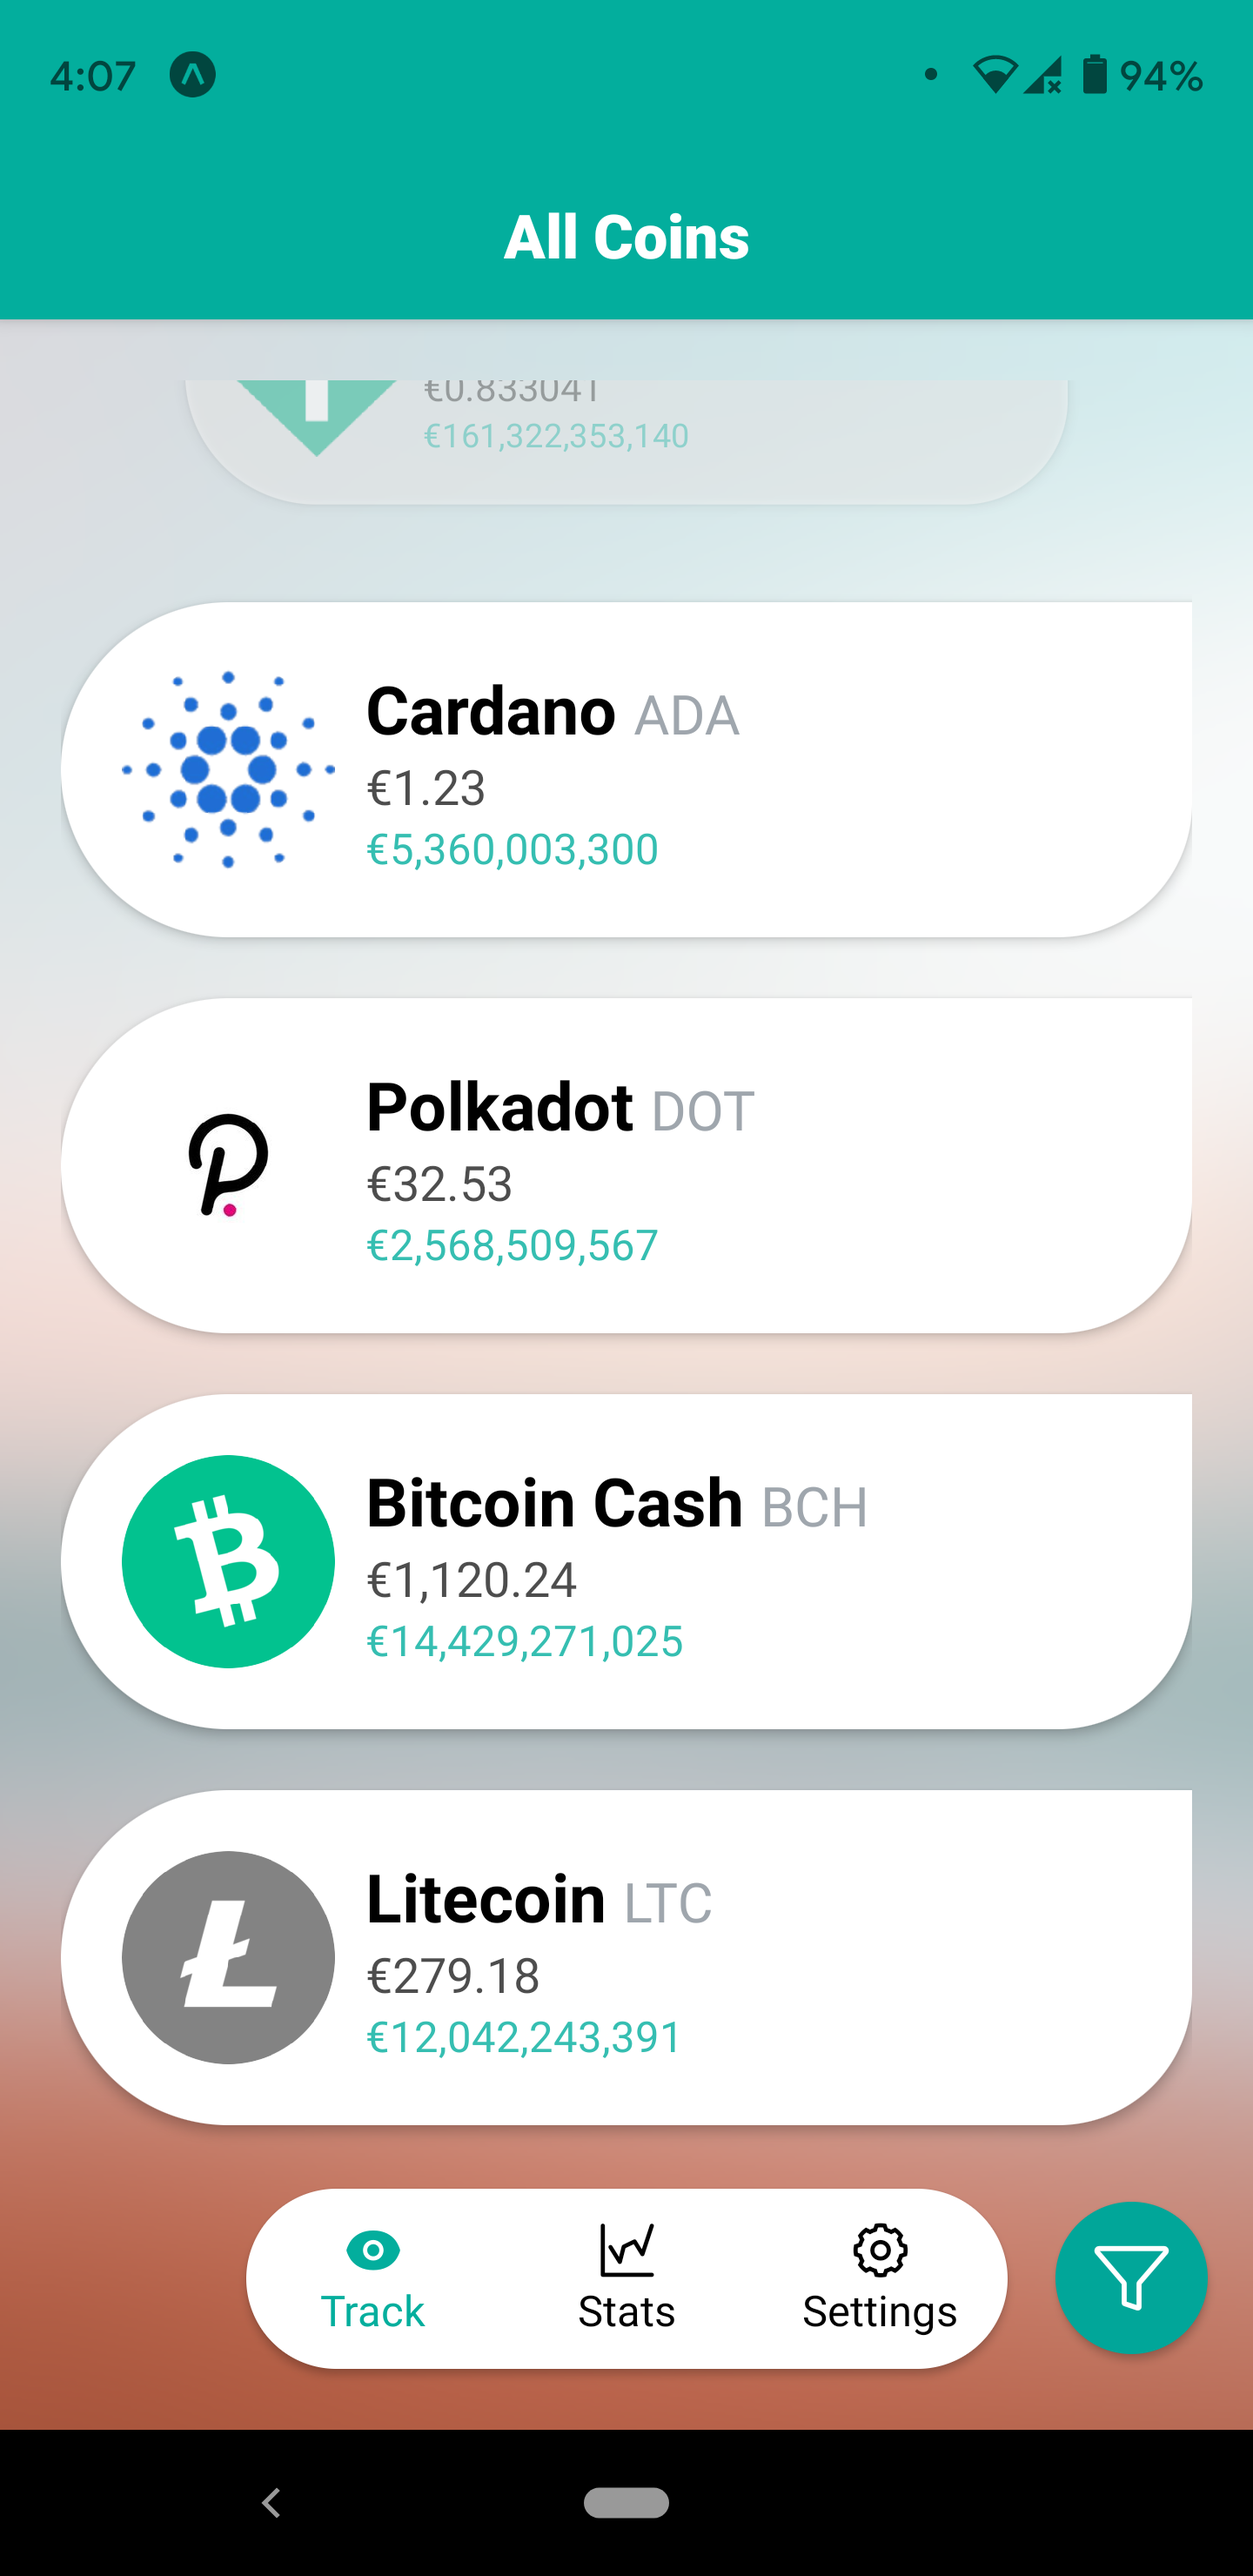
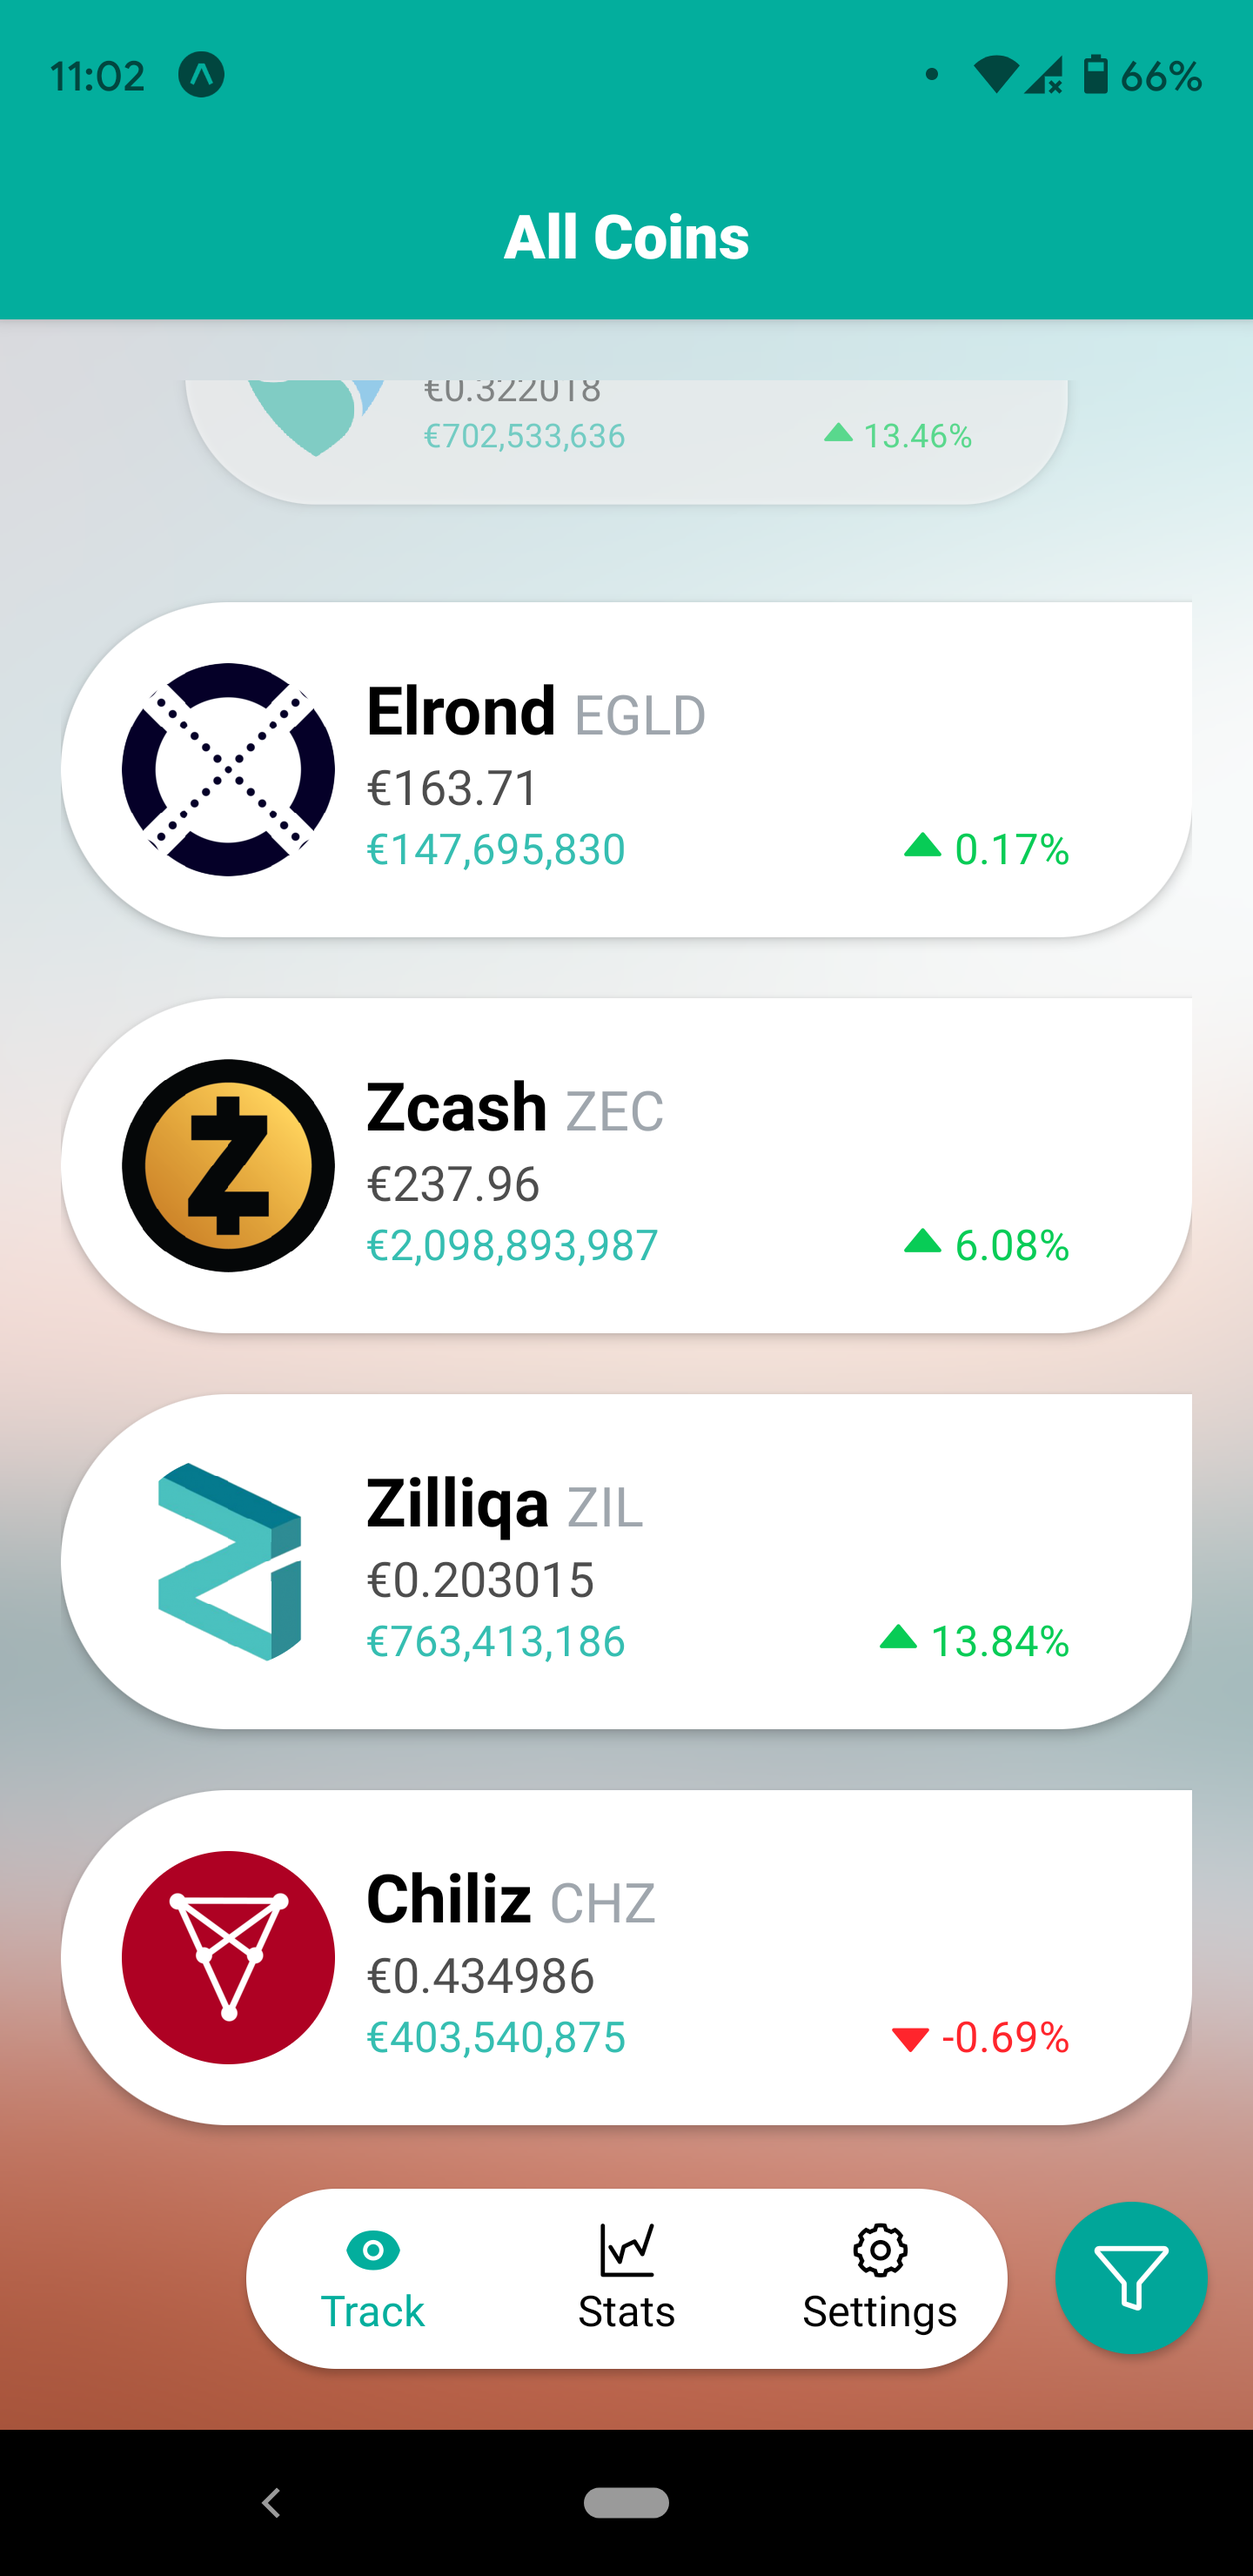
Insert price change section

diff --git a/app/components/CoinList.js b/app/components/CoinList.js
@@ -9,12 +9,15 @@ import {
   StyleSheet,
   Pressable,
   ActivityIndicator,
+  Dimensions,
 } from 'react-native';
+import { AntDesign } from '@expo/vector-icons';
 
 const AnimatedPressable = Animated.createAnimatedComponent(Pressable);
 const SPACING = 20;
 const AVATAR_SIZE = 70;
 const ITEM_SIZE = AVATAR_SIZE + SPACING * 3;
+const WIDTH = Dimensions.get('window').width;
 
 const CoinList = () => {
   const [coins, setCoins] = useState([]);
@@ -35,8 +38,9 @@ const CoinList = () => {
   }, [page]);
 
   const fetchCrypto = async () => {
-    const qs = `vs_currency=eur&order=market_cap_desc&per_page=25&page=${page}&sparkline=false`;
-    const baseUrl = `${COINGECKO_URL}/api/v3/coins/markets?${qs}`;
+    const perPage = 25;
+    const urlParams = `vs_currency=eur&order=market_cap_desc&per_page=${perPage}&page=${page}&sparkline=false`;
+    const baseUrl = `${COINGECKO_URL}/api/v3/coins/markets?${urlParams}`;
 
     axios
       .get(baseUrl)
@@ -60,7 +64,7 @@ const CoinList = () => {
       -1,
       0,
       ITEM_SIZE * index,
-      ITEM_SIZE * (index + 0.8),
+      ITEM_SIZE * (index + 1.2),
     ];
 
     const scale = scrollY.interpolate({
@@ -79,6 +83,28 @@ const CoinList = () => {
       });
     };
 
+    const percentageFormat = (num) => {
+      return (Math.round(num * 100) / 100).toFixed(2);
+    };
+
+    const renderPriceChange = (price) => {
+      if (price > 0) {
+        return (
+          <Text style={styles.rise}>
+            <AntDesign name='caretup' color='#08cc56' size={14} />{' '}
+            {percentageFormat(item.price_change_percentage_24h)}%
+          </Text>
+        );
+      } else {
+        return (
+          <Text style={styles.drop}>
+            <AntDesign name='caretdown' color='#ff252c' size={14} />{' '}
+            {percentageFormat(item.price_change_percentage_24h)}%
+          </Text>
+        );
+      }
+    };
+
     return (
       <AnimatedPressable
         style={[
@@ -91,16 +117,19 @@ const CoinList = () => {
         onPress={() => alert(`test onPress: ${item.id}`)}
       >
         <Image style={styles.itemImage} source={{ uri: item.image }} />
-        <View>
+        <View style={styles.wrapper}>
           <Text style={styles.baseText}>
             {item.name} <Text style={styles.innerText}>{item.symbol}</Text>
           </Text>
           <Text style={styles.itemPrice}>
             &euro;{numberFormat(item.current_price)}
           </Text>
-          <Text style={styles.itemVolume}>
-            &euro;{numberFormat(item.total_volume)}
-          </Text>
+          <View style={styles.combo}>
+            <Text style={styles.itemVolume}>
+              &euro;{numberFormat(item.total_volume)}
+            </Text>
+            {renderPriceChange(item.price_change_percentage_24h)}
+          </View>
         </View>
       </AnimatedPressable>
     );
@@ -115,13 +144,7 @@ const CoinList = () => {
             size='large'
             color='#03AE9D'
           />
-        ) : // <Image
-        //   style={styles.loader}
-        //   source={require('../../assets/spinner.gif')}
-        //   resizeMode='contain'
-        //   resizeMethod='resize'
-        // />
-        null}
+        ) : null}
       </View>
     );
   };
@@ -173,6 +196,10 @@ const styles = StyleSheet.create({
     borderRadius: AVATAR_SIZE,
     marginRight: SPACING / 2,
   },
+  wrapper: {
+    flex: 1,
+    marginRight: SPACING,
+  },
   itemPrice: {
     fontSize: 16,
     opacity: 0.7,
@@ -201,5 +228,15 @@ const styles = StyleSheet.create({
     justifyContent: 'space-around',
     width: AVATAR_SIZE,
     height: AVATAR_SIZE,
+  },
+  combo: {
+    flexDirection: 'row',
+    justifyContent: 'space-between',
+  },
+  rise: {
+    color: '#08cc56',
+  },
+  drop: {
+    color: '#ff252c',
   },
 });
